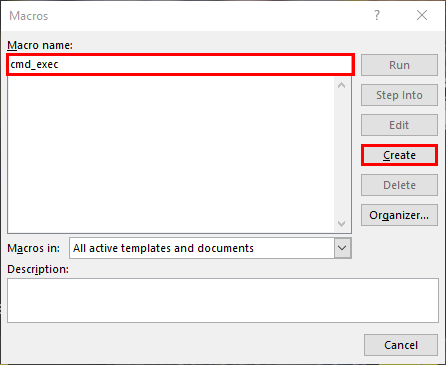
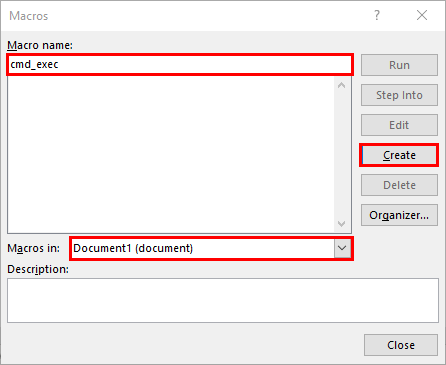
various readme update2

diff --git a/README.md b/README.md
@@ -9,10 +9,13 @@ Inspired by the recent Offensive Security post https://www.offensive-security.co
 2. Select `View`, `Macros`, `View Macros`.
 ![View Macros](images/2.png)
 
-3. Enter a name for the macro in the `Macro name:` field and select `Create`. 
+3. Enter a name for the macro in the `Macro name:` field and select `Create`. Ensure that the `Macros in:` field is set to be the current document (Document1) likely if the document is new and hasn't yet been saved. 
 ![Create Macro](images/3.png)
 
-4. Copy & Paste the code below into the codebox and click on the `Save` icon.
+4. If prompted to save the document somewhere, In this example I will use the location `C:\temp\cmd_exec.docx`. Also set the `Save as type:` field to be `Word Macro-Enabled Document (*.docm)`. 
+![Create Macro](images/10.png)
+
+5. Copy & Paste the code below into the codebox and click on the `Save` icon.
 ![Create Macro](images/4.png)
 ```vb
 Sub AutoOpen()
@@ -28,15 +31,19 @@ Sub chapel()
 End Sub
 
 ```
-5. Create Custom properties. Go to `File`, `Info`, `Properties`, `Advanced Properties`.
+6. Create Custom properties. Go to `File`, `Info`, `Properties`, `Advanced Properties`.
 ![Create Macro](images/5.png)
 
-6. In the `name` field enter `cmd`, in the `value` field enter `cmd.exe` then click `Add`
+7. In the `name` field enter `cmd`, in the `value` field enter `cmd.exe` then click `Add`
 ![Create Macro](images/6.png)
 ![Create Macro](images/7.png)
 
-7. In the `name` field enter `argument`, in the `value` field enter `/c whoami` then click `Add`
+8. In the `name` field enter `argument`, in the `value` field enter `/c whoami` then click `Add`
 ![Create Macro](images/8.png)
 
-8. Once both values have been added, Click OK to close the `Properties` dialog box. 
+9. Once both values have been added, Click OK to close the `Properties` dialog box. 
 ![Create Macro](images/9.png)
+
+9. Save the document, for this example I have saved it to `C:\temp\cmd_exec.docx`. 
+
+## PowerShell
